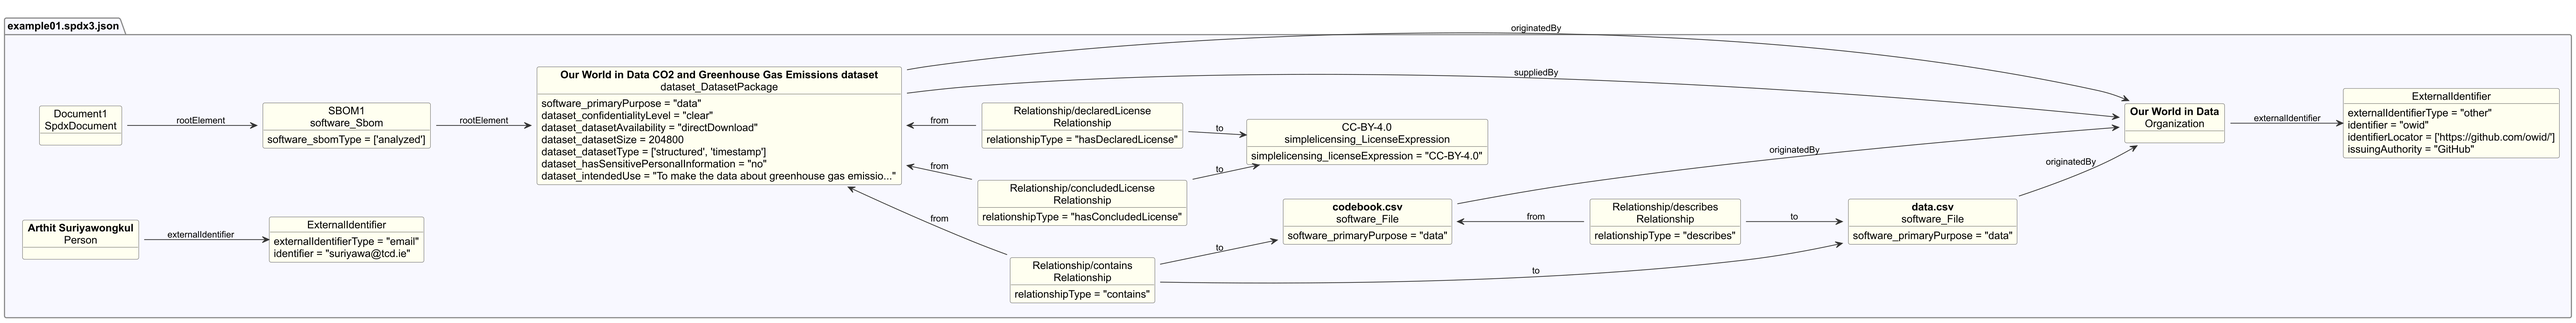
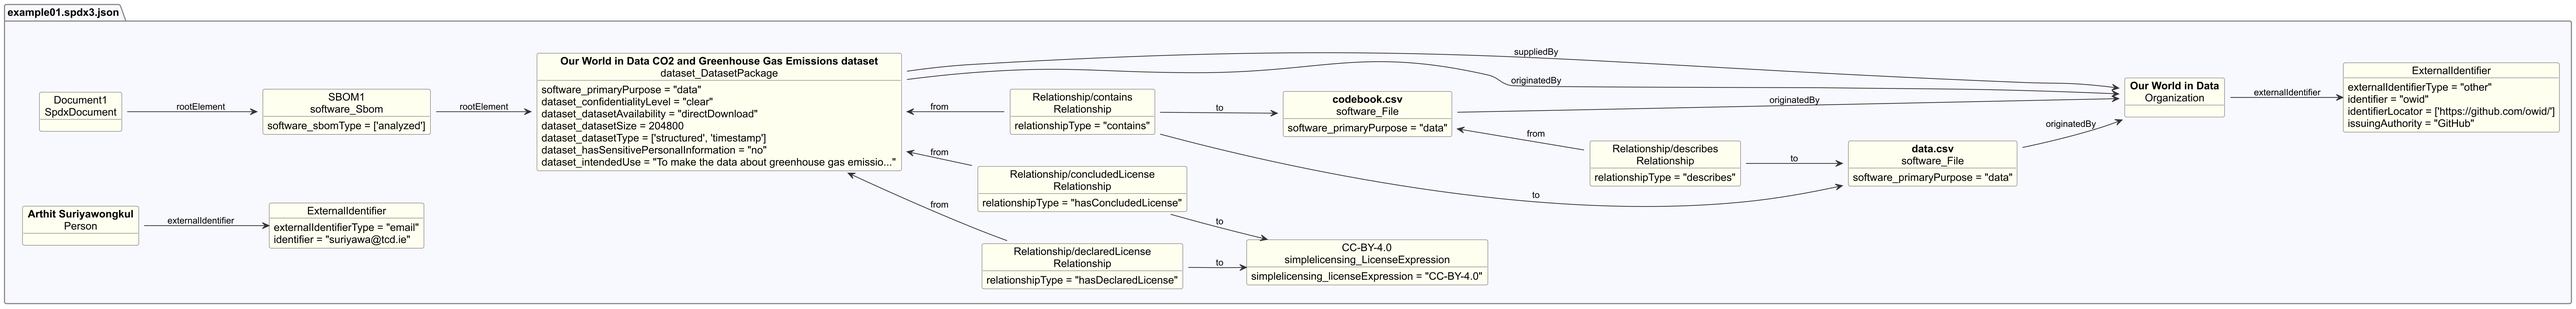
Update spdxId

diff --git a/.claude/commands/spdx3-to-diagram.md b/.claude/commands/spdx3-to-diagram.md
@@ -54,14 +54,21 @@ plantuml -tsvg OUTPUT.simplified.puml
 # Output: OUTPUT.simplified.svg
 ```
 
-### Step 4 — Convert SVG to 8K PNG (2-step for quality)
+### Step 4 — Convert SVG to high-res PNG (2-step for quality)
 ```bash
-# SVG → PNG at 8K width (7680 px)
+# SVG → PNG at 7680px wide; height follows the diagram's natural aspect ratio.
+# Do NOT specify -h: combining -w and -h without -a distorts; with -a it shrinks
+# diagrams whose natural height exceeds 4320px (portrait layouts lose resolution).
 rsvg-convert -w 7680 OUTPUT.simplified.svg -o EXAMPLE_DIR/exampleNN.spdx3.png
 ```
 
 > Do NOT use `plantuml -tpng` directly — the resolution will be too low.
 > Always go SVG → PNG via `rsvg-convert`.
+> Do NOT add `-h`: it either distorts (without `-a`) or caps resolution for tall diagrams (with `-a`).
+> The `left to right direction` directive in the PlantUML skinparams (set by
+> `simplify_puml.py`) is the primary driver of horizontal layout — diagrams
+> flow left-to-right, producing wide canvases naturally.
+> Custom `.puml` files must also include `left to right direction`.
 
 ## For complex examples (many files or elements)
 
